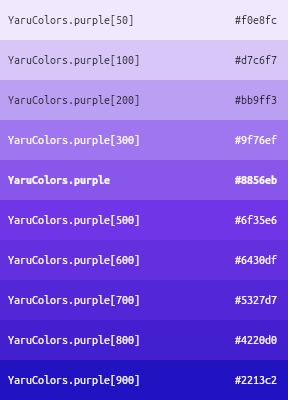
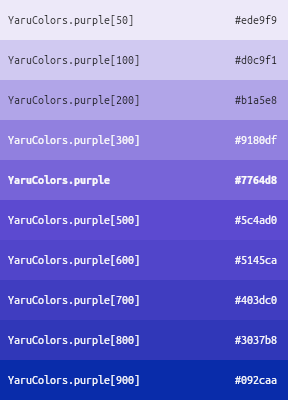
Sync accent colors with ubuntu/yaru (#28)
https://github.com/ubuntu/yaru/blob/master/common/accent-colors.scss.in

diff --git a/lib/src/colors.g.dart b/lib/src/colors.g.dart
@@ -7,17 +7,17 @@ part of 'colors.dart';
 // **************************************************************************
 
 class _$YaruColors {
-  static const MaterialColor orange = MaterialColor(0xFFE95622, {
+  static const MaterialColor orange = MaterialColor(0xFFE95420, {
     50: Color(0xFFF9E9E7),
     100: Color(0xFFFBCCBC),
-    200: Color(0xFFF9AB92),
-    300: Color(0xFFF68B67),
-    400: Color(0xFFF57345),
-    500: Color(0xFFF45C26),
-    600: Color(0xFFE95622),
-    700: Color(0xFFDB4F1E),
-    800: Color(0xFFCD491A),
-    900: Color(0xFFB43D14)
+    200: Color(0xFFF9AB91),
+    300: Color(0xFFF68A65),
+    400: Color(0xFFF57144),
+    500: Color(0xFFF45A24),
+    600: Color(0xFFE95420),
+    700: Color(0xFFDB4D1B),
+    800: Color(0xFFCD4718),
+    900: Color(0xFFB43B11)
   });
 
   static const MaterialColor warmGrey = MaterialColor(0xFFAEA79F, {
@@ -98,30 +98,30 @@ class _$YaruColors {
     900: Color(0xFF046744)
   });
 
-  static const MaterialColor purple = MaterialColor(0xFF8856EB, {
-    50: Color(0xFFF0E8FC),
-    100: Color(0xFFD7C6F7),
-    200: Color(0xFFBB9FF3),
-    300: Color(0xFF9F76EF),
-    400: Color(0xFF8856EB),
-    500: Color(0xFF6F35E6),
-    600: Color(0xFF6430DF),
-    700: Color(0xFF5327D7),
-    800: Color(0xFF4220D0),
-    900: Color(0xFF2213C2)
+  static const MaterialColor purple = MaterialColor(0xFF7764D8, {
+    50: Color(0xFFEDE9F9),
+    100: Color(0xFFD0C9F1),
+    200: Color(0xFFB1A5E8),
+    300: Color(0xFF9180DF),
+    400: Color(0xFF7764D8),
+    500: Color(0xFF5C4AD0),
+    600: Color(0xFF5145CA),
+    700: Color(0xFF403DC0),
+    800: Color(0xFF3037B8),
+    900: Color(0xFF092CAA)
   });
 
-  static const MaterialColor red = MaterialColor(0xFFE61D34, {
-    50: Color(0xFFFFEAEE),
-    100: Color(0xFFFFCAD2),
-    200: Color(0xFFEF9499),
-    300: Color(0xFFE56A72),
-    400: Color(0xFFF0434F),
-    500: Color(0xFFF52A35),
-    600: Color(0xFFE61D34),
-    700: Color(0xFFD40D2E),
-    800: Color(0xFFC70027),
-    900: Color(0xFFB9001A)
+  static const MaterialColor red = MaterialColor(0xFFDA3450, {
+    50: Color(0xFFFBE4E9),
+    100: Color(0xFFF6BBC8),
+    200: Color(0xFFEF90A4),
+    300: Color(0xFFE86581),
+    400: Color(0xFFE14967),
+    500: Color(0xFFDA3450),
+    600: Color(0xFFCA2F4E),
+    700: Color(0xFFB52A4A),
+    800: Color(0xFFA12547),
+    900: Color(0xFF7D1D40)
   });
 
   static const MaterialColor blue = MaterialColor(0xFF0073E5, {
@@ -137,17 +137,17 @@ class _$YaruColors {
     900: Color(0xFF0F41B4)
   });
 
-  static const MaterialColor magenta = MaterialColor(0xFFBC33DB, {
-    50: Color(0xFFF6E5FA),
-    100: Color(0xFFE8BDF2),
-    200: Color(0xFFD98FEA),
-    300: Color(0xFFC95FE2),
-    400: Color(0xFFBC33DB),
-    500: Color(0xFFAF00D4),
-    600: Color(0xFF9E00CE),
-    700: Color(0xFF8700C8),
-    800: Color(0xFF7200C2),
-    900: Color(0xFF4600B6)
+  static const MaterialColor magenta = MaterialColor(0xFFB34CB3, {
+    50: Color(0xFFF4E6F4),
+    100: Color(0xFFE4C0E4),
+    200: Color(0xFFD396D3),
+    300: Color(0xFFC16CC1),
+    400: Color(0xFFB34CB3),
+    500: Color(0xFFA52FA6),
+    600: Color(0xFF972BA0),
+    700: Color(0xFF852598),
+    800: Color(0xFF752090),
+    900: Color(0xFF591782)
   });
 
   static const MaterialColor kubuntuBlue = MaterialColor(0xFF0079C1, {

diff --git a/lib/src/colors.dart b/lib/src/colors.dart
@@ -18,7 +18,7 @@ class YaruColors {
   /// Ubuntu Orange
   ///
   /// ![](https://raw.githubusercontent.com/ubuntu/yaru_colors.dart/main/doc/images/orange.png)
-  @GeneratedYaruColor(0xFFE95622)
+  @GeneratedYaruColor(0xFFE95420)
   static const MaterialColor orange = _$YaruColors.orange;
 
   /// Warm Grey
@@ -105,13 +105,13 @@ class YaruColors {
   /// Purple
   ///
   /// ![](https://raw.githubusercontent.com/ubuntu/yaru_colors.dart/main/doc/images/purple.png)
-  @GeneratedYaruColor(0xFF8856EB)
+  @GeneratedYaruColor(0xFF7764D8)
   static const MaterialColor purple = _$YaruColors.purple;
 
   /// Red
   ///
   /// ![](https://raw.githubusercontent.com/ubuntu/yaru_colors.dart/main/doc/images/red.png)
-  @GeneratedYaruColor(0xFFE61D34)
+  @GeneratedYaruColor(0xFFDA3450)
   static const MaterialColor red = _$YaruColors.red;
 
   /// Blue
@@ -123,7 +123,7 @@ class YaruColors {
   /// Magenta
   ///
   /// ![](https://raw.githubusercontent.com/ubuntu/yaru_colors.dart/main/doc/images/magenta.png)
-  @GeneratedYaruColor(0xFFBC33DB)
+  @GeneratedYaruColor(0xFFB34CB3)
   static const MaterialColor magenta = _$YaruColors.magenta;
 
   /// Kubuntu Blue
